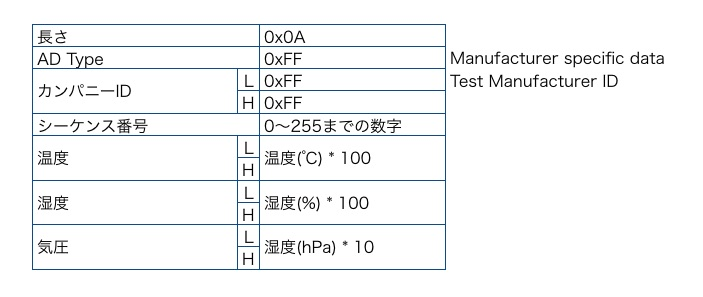
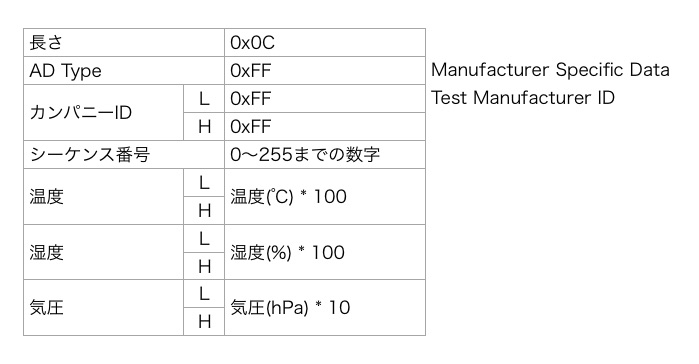
June

Changed region(s): [[0.03, 0.0606, 0.9614, 0.9394]]

diff --git a/letsiot/m5stickc/index.html b/letsiot/m5stickc/index.html
@@ -1,0 +1,293 @@
+<!doctype html>
+<html class="no-js" lang="">
+<head>
+<meta http-equiv="Content-type" content="text/html; charset=UTF-8">
+<meta http-equiv="x-ua-compatible" content="ie=edge">
+<meta name="description" content="M5StickC - LetsIoT">
+<meta name="viewport" content="width=device-width, initial-scale=1">
+<title>M5StickCで小型環境センサ端末を作る - AmbientでIoTをはじめよう</title>
+<link rel="shortcut icon" href="/favicon.ico" />
+
+<link rel="stylesheet" href="https://maxcdn.bootstrapcdn.com/bootstrap/3.3.7/css/bootstrap.min.css" integrity="sha384-BVYiiSIFeK1dGmJRAkycuHAHRg32OmUcww7on3RYdg4Va+PmSTsz/K68vbdEjh4u" crossorigin="anonymous">
+<link rel="stylesheet" href="https://maxcdn.bootstrapcdn.com/bootstrap/3.3.7/css/bootstrap-theme.min.css" integrity="sha384-rHyoN1iRsVXV4nD0JutlnGaslCJuC7uwjduW9SVrLvRYooPp2bWYgmgJQIXwl/Sp" crossorigin="anonymous">
+
+<style>
+    body {
+        /* padding-top: 20px;
+        padding-bottom: 20px; */
+    }
+    .navbar {
+        margin-bottom: 60px;
+        height: 140px;
+    }
+    .navbar-brand img {
+        padding: 40px 0;
+    }
+    .footer {
+        margin-top: 60px;
+        background: #F7F7F7;
+    }
+    .footer ul {
+        padding-top: 35px;
+        padding-left: 0px;
+        margin-left: 0px;
+    }
+    .footer li {
+        line-height: 25px;
+        padding-left: 0px;
+        margin-left: 0px;
+        list-style: none;
+    }
+    .footer a {
+        color: #999;
+        font-weight: bold;
+    }
+    .footer #copyright {
+        clear: left;
+        margin-top: 35px;
+        margin-bottom: 20px;
+    }
+    .alert-info {
+        margin-top: 70px;
+        background-image: none !important;
+    }
+    h2 {
+        margin-top: 40px;
+    }
+    .submenu li {
+        margin-bottom: 6px;
+    }
+</style>
+</head>
+<body>
+
+<div class="navbar navbar-default">
+    <div class="container">
+        <div class="container-fluid">
+
+            <div class="navbar-header">
+                <a class="navbar-brand" href="https://www.switch-science.com/">
+                    <img alt="switch-science" src="../../top-logo.gif">
+                </a>
+            </div>
+
+          </div>
+    </div>
+</div>
+
+<div class="wrap">
+    <div class="container">
+
+        <div class="row">
+            <div class="col-lg-8 col-sm-9 hidden-xs" style="margin-bottom: 20px;">
+                <h1>AmbientでIoTをはじめよう</h1>
+            </div>
+            <div class="col-lg-8 col-sm-9 hidden-xs">
+                <p class="text-right">2019年6月20日</p>
+            </div>
+            <div class="col-lg-8 col-sm-9 hidden-xs">
+                <h1>M5StickCで小型環境センサ端末を作る</h1>
+            </div>
+
+            <div class="col-sm-9 col-lg-8">
+
+                <p>「AmbientでIoTをはじめよう」、第20回はM5Stackで距離を測ります。</p>
+                <p>M5Stack社から、「M5StickC」という新しい端末がリリースされ、日本でも販売が始まりました。
+                    「AmbientでIoTをはじめよう」の第20回はこの「M5StickC」を使って小型の環境センサ端末を作ります。</p>
+                <p><img src="./images/m5stackm5stickc.jpg" width="90%" class="img-responsive center-block" alt=""></p>
+                <h2 id="「m5stickc」">「M5StickC」</h2>
+                <p>M5StickCは、上の写真の右のように4.8 x 2.4 x 1.4cmのスティック状の小型端末です。MPUはM5Stackで使われているESP32と同じアーキテクチャのESP32-picoが使われています。MPUの他に、80 x 160ピクセルのカラー液晶画面、ボタン3個、LED、赤外線送信機、マイク、6軸加速度・ジャイロセンサなどが搭載されています。プログラムはArduino IDEか、UIFlowという開発環境を使ってBlocklyまたはMicroPythonで開発します。</p>
+                <p>M5StickCのスペックを、 M5Stackシリーズと合わせてまとめました。</p>
+                <p><img src="./images/m5stackspec.jpg" width="90%" class="img-responsive center-block" alt=""></p>
+                <p>M5StickCとM5Stackを比較すると、サイズの違いの他に、LCDも80×160ピクセルとサイズが小さくなり、M5StackにあるmicroSDカードスロットがありません。スピーカーも便利なのですが、M5StickCにはありません（今後、拡張ハットとして提供されるようです）。逆にM5StickCには赤外線LEDと6軸の加速度・ジャイロセンサがついています。</p>
+                <p>パソコンとの接続はM5Stackと同じくType-C USBケーブルを使います。その他、I2CのGeoveポートと、8ピンの拡張ソケットがついています。</p>
+                <p>LCDの下に大きめのボタンがあり、M5StickCを手に持って、何かを制御するコントローラとしても使えそうです。</p>
+                <h2 id="開封">開封</h2>
+                <p>M5StickCは、下の写真のようなパッケージに入って届けられます。</p>
+                <p><img src="./images/packed.jpg" width="90%" class="img-responsive center-block" alt=""></p>
+                <p>パッケージの中には次の写真にあるものが同梱されています。</p>
+                <p><img src="./images/items.jpg" width="90%" class="img-responsive center-block" alt=""></p>
+                <p>同梱物</p>
+                <ul>
+                <li>腕時計マウンタ</li>
+                <li>LEGO互換マウンタ</li>
+                <li>ネジ固定用マウンタ</li>
+                <li>USB Type-Cケーブル</li>
+                </ul>
+                <p>腕時計マウンタ、LEGO互換マウンタはホビー向けですが、ネジ固定用マウンタはホビーに限らず、幅広い用途を想定しているように思います。</p>
+                <h2 id="arduino環境のセットアップ">Arduino環境のセットアップ</h2>
+                <p>Arduino IDEのインストールは「<a href="https://docs.m5stack.com/#/ja/quick_start/m5stickc/m5stickc_quick_start_with_arduino_Windows">M5StickC クイックスタート</a>」に書かれていますが、M5Stackのセットアップと違う点だけを解説します。</p>
+                <h3 id="ボード情報">ボード情報</h3>
+                <p>Arduino IDEをインストールした後、ボード情報を設定します。M5StickCのボード情報は「M5Stick-C」を選択します。</p>
+                <p><img src="./images/setting.jpg" width="90%" class="img-responsive center-block" alt=""></p>
+                <p>「M5Stick-C」はESP32のボード情報のバージョンが1.0.2以上でないと選択肢に現れません。ボード情報に「M5Stick-C」が現れないときは、ESP32のバージョンを1.0.2以上に更新してください。Arduino IDEの「ツール」メニュー→「ボード」→「ボードマネージャ…」を選択して、ボードマネージャを立ち上げ、検索窓に「esp32」と入力して、「esp32 by Espressif Systems」を選び、1.0.2以上のバージョンをインストールします。</p>
+                <p>「M5Stick-C」はビルドしたスケッチを転送する速度が最高1.5Mbpsに高速化されています。ボード情報を「M5Stick-C」に設定すると、転送速度（Upload Speed）は1.5Mbpsに設定されます。</p>
+                <h3 id="ライブラリインストール">ライブラリインストール</h3>
+                <p>M5StickCでは、LCDなどにアクセスするシステム関数もライブラリとして提供されているので、インストールします。Arduino IDEの「スケッチ」メニュー→「ライブラリをインクルード」→「ライブラリを管理…」でライブラリマネージャを立ち上げ、検索窓に「m5stickc」と入力します。検索結果に現れた「M5StickC by M5StickC」の最新版をインストールします。</p>
+                <p>これで、Arduino環境のセットアップは完了です。</p>
+                <h2 id="温度、湿度、気圧を測る">温度、湿度、気圧を測る</h2>
+                <p>M5StickC用のArduino環境がセットアップできたら、センサをつないでみます。M5StickCにはGroveポートと、Groveポートの反対側に拡張ソケットがあり、そこにセンサをつなげられます。</p>
+                <p>M5Stackのセンサユニットで、温度、湿度、気圧が測れる「Env（環境）」ユニットというものがあります。国内では単品では販売されていませんが、「M5GO IoTスターターキット」に含まれています。今回はこの「Env」ユニットをM5StickCにつないで温度、湿度、気圧を測ってみます。</p>
+                <p>「Env」ユニットは、I2CのGroveポートで接続するので、M5StickCのGroveポートに挿すだけで接続完了です。</p>
+                <p><img src="./images/m5stickcenvsensor.jpg" width="90%" class="img-responsive center-block" alt=""></p>
+                <p>「Env」ユニットにはDHT12という温度、湿度センサと、BMP280という気圧センサが内蔵されています。</p>
+                <p>ArduinoでDHT12にアクセスするライブラリは公開されたものがあり、BMP280ライブラリはAdafruit社が公開しています。Arduino IDEのライブラリマネージャを立ち上げ、検索窓から「bmp280 adafruit」と検索して、BMP280ライブラリをインストールします。</p>
+                <p><img src="./images/installbmp280.jpg" width="90%" class="img-responsive center-block" alt=""></p>
+                <p>「Env」ユニットで温度、湿度、気圧を測るプログラムは次のようになります。</p>
+
+                <p>M5Stackのプログラムは M5Stack.h をインクルードしますが、M5StickCのプログラムは M5StickC.h をインクルードします（A）。</p>
+                <p>M5.Axp.ScreenBreath(10) はスクリーンの輝度を制御するAPIで、7から15の値が指定できます。10に設定して、再高輝度よりやや輝度を落としています（B）。M5Stackでは M5.Lcd.setBrightness というAPIでしたが、M5StickCではM5.Axp.ScreenBreathに変更になりました。</p>
+                <p>M5.Lcd.setRotation(3) は画面を90°単位で回転させるAPIです（C）。引数に3を指定すると、M5StickCの左側が上になり、画面を横長に使えます。M5StickCは画面が小さいので、表示したい情報に合わせて、画面を有効に使うとよさそうです。</p>
+                <p>I2Cを制御するWireライブラリなどはM5Stackと同じように使えます。</p>
+                <p>M5.Axp.GetVbatData() はM5StickCのバッテリー電圧を取得するAPIです（D）。</p>
+                <p>このプログラムをビルドして実行すると、写真5のように温度、湿度、気圧とバッテリー電圧がLCDに表示されます。</p>
+                <p><img src="./images/m5stickc.jpg" width="90%" class="img-responsive center-block" alt=""></p>
+                <h2 id="wi-fi-に接続して、データをクラウドに送信する">Wi-Fi に接続して、データをクラウドに送信する</h2>
+                <p>M5StickCに搭載されているMPU、ESP32はWi-FiとBluetoothで通信ができます。ここではWi-Fiでセンサデータをクラウドサービスに送信して、可視化してみます。</p>
+                <p>クラウドサービスとしては、著者が運営するシンプルなIoTデータ可視化サービス「Ambient」を使います。</p>
+                <p>Wi-Fiに接続する方法、Ambientにデータを送信する方法はM5Stackのときと全く同じです。プログラムは次です。</p>
+
+                <p>WiFi.begin 関数でWi-Fiのアクセスポイントに接続します（A）。</p>
+                <p>Ambientにデータを送信するには、ambient.set 関数で送信するデータをセットし、ambient.send 関数で送信するだけです（B）。</p>
+                <p>上のプログラムでは、センサからデータを取得し、Wi-Fiアクセスポイントに接続して、データをクラウドサービスに送信した後、deep sleepモードに移行しています（C）。指定した時間経過した後に、再びプログラムの先頭から動き始めます。Deep sleepの方法もM5Stackと同じです。</p>
+                <p>このように、M5StackとM5StickCは、同じESP32マイコンを使っているため、setBrightness と ScreenBreath のように一部変更になったシステム関数はあるものの、ほとんど同じ感覚でプログラミングできます。</p>
+                <h2 id="データをbleで送る">データをBLEで送る</h2>
+                <p>次にデータをM5StickCからBluetooth Low Enrgy（BLE）で送ってみます。</p>
+                <p>BLE通信は、センサ端末（ペリフェラル）とセンター側の端末（セントラル）がコネクトしてデータを送受信するコネクトモードと、ペリフェラルがセンサデータなどをアドバタイジングパケットに載せて送り、セントラルがそれを受信するブロードキャストモードがあります。今回はセンサ端末の通信に向いたブロードキャストモードを使います。</p>
+                <p>セントラル側はM5Stackを使います。</p>
+                <p><img src="./images/structure.jpg" width="90%" class="img-responsive center-block" alt=""></p>
+                <h3 id="センサ端末側プログラム">センサ端末側プログラム</h3>
+                <p>ブロードキャストモードでは、センサ端末がセンサデータをアドバタイジングパケットの中のアドバタイジングデータという最大31バイトのデータ領域に載せて発信します。</p>
+                <p>アドバタイジングデータの「AD Type」というフィールドを0xFFにすることで、メーカー独自のデータが定義できます。「カンパニーID」には0xFFFFというテスト用のIDがあるので、今回はテスト用IDを使います。それ以降のフィールドは、次のように定義して使います。</p>
+                <p><img src="./images/advdata.jpg" width="90%" class="img-responsive center-block" alt=""></p>
+                <p>ブロードキャストモードでアドバタイジングパケットを送信する部分は次のプログラムです。温度、湿度、バッテリー電圧は値を100倍、気圧は10倍してアドバタイジングパケットにセットすることで、アドバタイジングパケットにはデータを16ビット整数で格納しています。受信側では温度、湿度、バッテリー電圧の値を100分の1、気圧の値を10分の1にして、元の値に戻します。<br>
+                プログラム全体はGithubに公開したので、ご覧ください。</p>
+                <ul>
+                <li><a href="https://github.com/AmbientDataInc/M5StickC">https://github.com/AmbientDataInc/M5StickC</a></li>
+                </ul>
+
+                <p>10秒間アドバタイジングパケットを送信し、290秒間deep sleepするようにしました。</p>
+                <h3 id="センター側プログラム">センター側プログラム</h3>
+                <p>アドバタイジングパケットを受信するセンター側はM5Stackを使いました。</p>
+                <p>アドバタイジングパケットをスキャンし、AD Typeが0xFFで、カンパニーIDが0xFFFFのデータを探します。送信側でパケットにシーケンス番号を付加してあり、1つ前に受信したシーケンス番号と比較してシーケンス番号が新しいパケットのときだけパケットを処理します。こうすることで、10秒間送信されるアドバタイジングパケットを複数回処理してしまうことを避けています。</p>
+                <p>最後に、パケットから温度、湿度、気圧、バッテリー電圧を取り出し、M5StackのLCDに表示しています。</p>
+
+                <p>プログラム全体はGithubをご覧ください。</p>
+                <ul>
+                <li><a href="https://github.com/AmbientDataInc/M5StickC">https://github.com/AmbientDataInc/M5StickC</a></li>
+                </ul>
+                <p>M5StickC、M5Stack、それぞれにプログラムをダウンロードして、実行すると、M5StickCで測定したデータがBLEでM5Stackに送られて、表示されるのが確認できます。</p>
+                <p><img src="./images/senddatabyble.jpg" width="90%" class="img-responsive center-block" alt=""></p>
+                <h2 id="ボタンの扱い">ボタンの扱い</h2>
+                <p>M5Stackに3つのボタンがあり、次のシステム関数で状態を得られました。</p>
+                <ul>
+                <li>M5.update()：ボタンの状態を調べる</li>
+                <li>M5.BtnA.isPressed()：ボタンAが押されているか</li>
+                <li>M5.BtnA.wasPressed()：ボタンAが押されていたか</li>
+                <li>M5.BtnA.pressedFor(uint32_t ms)：ボタンAがmsミリ秒押されていたか</li>
+                </ul>
+                <p>M5StickCにはLCDの下に大きなボタンAと、右側面にボタンBの2つのボタンがあります。2つのボタンはGPIO37とGPIO39につながっています。</p>
+                <p>M5Stackのようなシステム関数は提供されておらず、digitalRead関数で状態を読みます。ボタンAとボタンBはM5StickC.hの中で次のように定義されています。</p>
+                <pre><code>#define M5_BUTTON_HOME 37
+                #define M5_BUTTON_RST 39
+                </code></pre>
+                <p>M5StickCライブラリに添付されているサンプルスケッチを見ると、次のようにボタンの状態を読んでいます。</p>
+                <pre><code>    if (digitalRead(M5_BUTTON_HOME) == LOW) {
+                        // ボタンを押されたときの処理
+                        while (digitalRead(M5_BUTTON_HOME) == LOW) ;
+                    }
+                </code></pre>
+                <p>テストプログラムを作って、動作を確認したところ、上のコードでも、チャタリング(ボタンの機械的なバタつき)もなく、ボタンの状態が読めています。</p>
+                <h2 id="m5stickcの拡張性">M5StickCの拡張性</h2>
+                <p>M5StickCにはUSBポートと反対側に拡張ソケットがあります。M5Stackのボトムモジュールにあるピン・ソケットと同じように、ジャンパワイヤを使ってセンサなどをつなぐこともできますが、ここに接続する専用のハットが用意されています。</p>
+                <p>原稿執筆時点（2019年6月）で、M5Stack.comサイトには次の製品が掲載されています。</p>
+                <ul>
+                <li>環境センサ：温度、湿度、気圧、3軸磁気センサ搭載</li>
+                <li>人感センサ：人の動きを感知</li>
+                <li>スピーカー</li>
+                </ul>
+                <p>3月にM5Stack社のオフィスを訪問したときには、GPSや非接触温度センサなども予定しているとのことだったので、今後、続々といろいろなセンサハットが提供されることでしょう。日本ではまだ販売されていませんが、販売が待たれます。</p>
+                <p>これらを使うと、非常にコンパクトなセンサ端末が作れるので、M5StickCの利用用途もさらに広がりそうです。</p>
+
+            <div class="col-lg-push-1 col-sm-3 col-lg-3 hidden-xs" style="margin-bottom: 40px;">
+                <div style="float: left; margin-right: 10px;">
+                    <img src="../images/myphoto3.jpg" width="50px;" class="img-responsive center-block">
+                </div>
+                <div style="overflow: hidden;">
+                    <p>書いた人:下島健彦。<a href="https://ambidata.io" target="_blank">Ambient</a>開発者。アンビエントデーター代表取締役。</p>
+                </div>
+            </div>
+            <div class="col-lg-push-1 col-sm-3 col-lg-3 hidden-xs submenu" style="margin-bottom: 40px;">
+                <ul class="nav nav-pills nav-stacked">
+                    <li class="open"><a href="index.html">20.M5Stackで距離を測る</a></li>
+                    <ul class="list-unstyled">
+                        <li><a href="#測距センサ">測距センサ</a></li>
+                        <li><a href="#m5stackに測距センサをつなぐ">M5Stackに測距センサをつなぐ</a></li>
+                        <li><a href="#プログラム">プログラム</a></li>
+                        <li><a href="#生データを見る">生データを見る</a></li>
+                        <li><a href="#cmから100cmまで測ってみる">10cmから100cmまで測ってみる</a></li>
+                        <li><a href="#速度を測る">速度を測る</a></li>
+                    </ul>
+                </ul>
+            </div>
+            <div class="col-lg-push-1 col-sm-3 col-lg-3 hidden-xs submenu" id="backnumber">
+            </div>
+        </div>
+    </div>
+</div>
+
+<div class="footer">
+    <div class="container">
+        <div class="row">
+            <div>
+                <h5>免責事項</h5>
+                <p style="font-size:0.8em;">記事は実際に実験をおこなった上で書いていますが、動作を保証するものではありません。また本記事を利用したことにより生じる損害についてスイッチサイエンスおよびアンビエントデーターは一切の責任を負いません。</p>
+            </div>
+            <div class="col-xs-3">
+                <ul>
+                    <li></li>
+                </ul>
+            </div>
+            <div class="col-xs-3">
+                <ul>
+                    <li></li>
+                </ul>
+            </div>
+            <div class="col-xs-3">
+                <ul>
+                    <li></li>
+                </ul>
+            </div>
+            <div class="col-xs-3">
+                <ul>
+                    <li></li>
+                </ul>
+            </div>
+        </div>
+        <div id="copyright">
+            &copy; 2018 Switch Scinece, inc. &copy; 2018 AmbientData, Inc.
+        </div>
+    </div>
+</div>
+
+<script src="https://ajax.googleapis.com/ajax/libs/jquery/1.12.4/jquery.min.js"></script>
+<script src="https://maxcdn.bootstrapcdn.com/bootstrap/3.3.7/js/bootstrap.min.js" integrity="sha384-Tc5IQib027qvyjSMfHjOMaLkfuWVxZxUPnCJA7l2mCWNIpG9mGCD8wGNIcPD7Txa" crossorigin="anonymous"></script>
+
+<script>
+    $(document).ready(function() {
+        $('#backnumber').load('../backnumber.html');
+    });
+</script>
+
+<!-- Global site tag (gtag.js) - Google Analytics -->
+<script async src="https://www.googletagmanager.com/gtag/js?id=UA-4499733-1"></script>
+<script>
+  window.dataLayer = window.dataLayer || [];
+  function gtag(){dataLayer.push(arguments);}
+  gtag('js', new Date());
+
+  gtag('config', 'UA-4499733-1');
+</script>
+
+</body>
+</html>

diff --git a/letsiot/backnumber.html b/letsiot/backnumber.html
@@ -19,5 +19,6 @@
     <li><a href="../powermonitor/index.html">17.M5Stackとクランプ式電流センサで交流の電流値を測る</a></li>
     <li><a href="../thermalcamera/index.html">18.M5Stackにサーマルカメラをつなぐ</a></li>
     <li><a href="../m5camera/index.html">19.M5cameraとパンチルト機構でWebカメラを作る</a></li>
-    <li><a href="../ranging/index.html">10.M5Stackで距離を測る</a></li>
+    <li><a href="../ranging/index.html">20.M5Stackで距離を測る</a></li>
+    <li><a href="../m5stickc/index.html">21.M5StickCで小型環境センサ端末を作る</a></li>
 </ul>

diff --git a/letsiot/index.html b/letsiot/index.html
@@ -92,6 +92,7 @@
                 <li><a href="thermalcamera">M5Stackにサーマルカメラをつなぐ</a></li>
                 <li><a href="m5camera">M5cameraとパンチルト機構でWebカメラを作る</a></li>
                 <li><a href="ranging">M5Stackで距離を測る</a></li>
+                <li><a href="m5stickc">M5StickCで小型環境センサ端末を作る</a></li>
             </ul>
         </div>
     </div>
